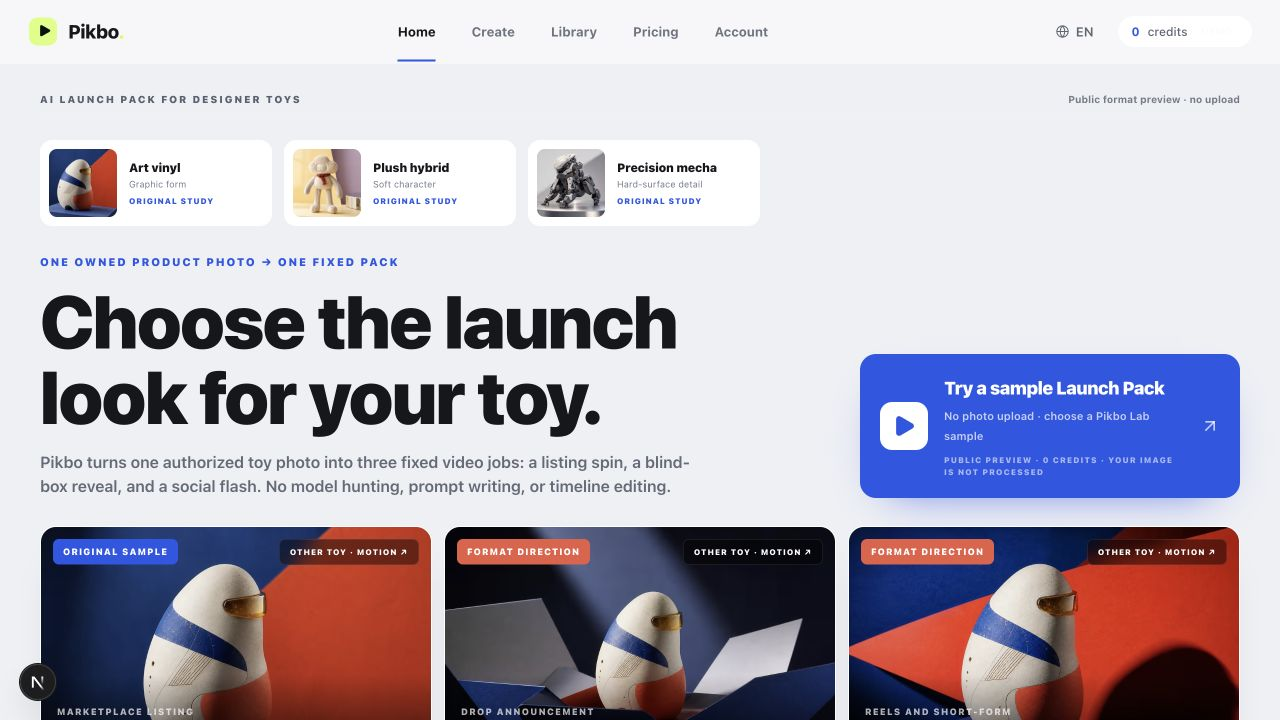
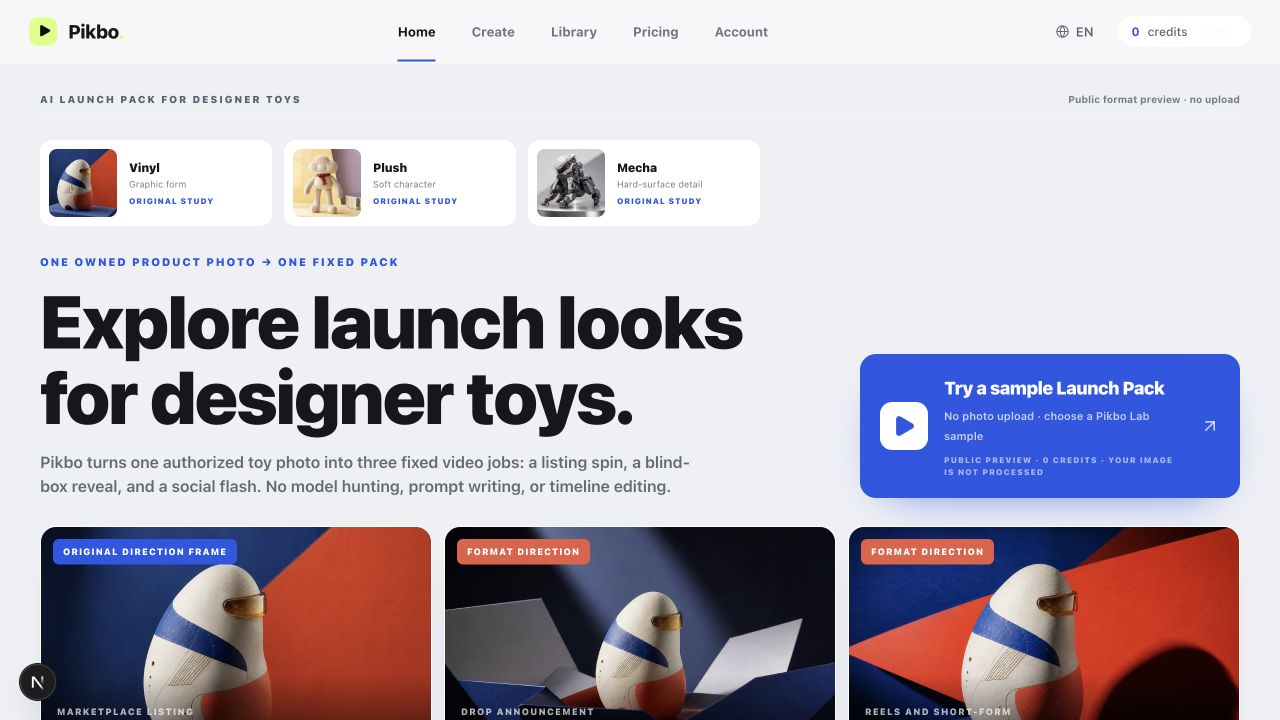
[gpt] close result-selector red-team findings

diff --git a/components/HomeCinemaHero.tsx b/components/HomeCinemaHero.tsx
@@ -17,19 +17,19 @@ import type { FeedItem } from "@/lib/videoFeed";
 
 const STYLE_STUDIES = [
   {
-    name: "Art vinyl",
+    name: "Vinyl",
     detail: "Graphic form",
     image: "/style-studies/art-vinyl-guardian-v1.jpg",
     alt: "Original white, cobalt, and red art-vinyl toy style study",
   },
   {
-    name: "Plush hybrid",
+    name: "Plush",
     detail: "Soft character",
     image: "/style-studies/plush-hybrid-v1.jpg",
     alt: "Original cream plush-hybrid toy style study",
   },
   {
-    name: "Precision mecha",
+    name: "Mecha",
     detail: "Hard-surface detail",
     image: "/style-studies/precision-mecha-v1.jpg",
     alt: "Original white, black, and orange mecha toy style study",
@@ -44,7 +44,7 @@ const FORMAT_DIRECTIONS = [
     spec: "1:1 · 5 sec",
     image: "/style-studies/art-vinyl-guardian-v1.jpg",
     alt: "Art-vinyl sample on a product plinth for the Listing Spin direction",
-    evidence: "Original sample",
+    evidence: "Original direction frame",
     tone: "blue",
   },
   {
@@ -71,7 +71,7 @@ const FORMAT_DIRECTIONS = [
 
 export function HomeCinemaHero({ items }: { items: FeedItem[] }) {
   const [launchAccess, setLaunchAccess] =
-    useState<HomeLaunchAccess>("checking");
+    useState<HomeLaunchAccess>("public-preview");
   const [credits, setCredits] = useState(0);
   const formats = FORMAT_DIRECTIONS.flatMap((format) => {
     const item = items.find((candidate) => candidate.recipeSlug === format.slug);
@@ -142,7 +142,7 @@ export function HomeCinemaHero({ items }: { items: FeedItem[] }) {
                 />
               </div>
               <div className="min-w-0">
-                <h2 className="truncate text-[10px] font-black sm:text-xs">
+                <h2 className="text-[10px] font-black sm:text-xs">
                   {style.name}
                 </h2>
                 <p className="mt-0.5 hidden text-[9px] text-[#747C89] sm:block">
@@ -165,7 +165,7 @@ export function HomeCinemaHero({ items }: { items: FeedItem[] }) {
               id="home-hero-title"
               className="mt-3 max-w-5xl font-display text-[clamp(2.55rem,5.8vw,6.25rem)] font-black leading-[0.91] tracking-[-0.065em]"
             >
-              Choose the launch look for your toy.
+              Explore launch looks for designer toys.
             </h1>
             <p className="mt-4 max-w-2xl text-sm font-semibold leading-6 text-[#626B78] sm:text-base">
               Pikbo turns one authorized toy photo into three fixed video jobs:
@@ -181,7 +181,7 @@ export function HomeCinemaHero({ items }: { items: FeedItem[] }) {
           id="pack-formats"
           className="mt-7 grid scroll-mt-20 gap-3 lg:grid-cols-3"
         >
-          {formats.map(({ format, item }, index) => (
+          {formats.map(({ format }, index) => (
             <article
               key={format.slug}
               data-home-format-preview={format.slug}
@@ -207,13 +207,6 @@ export function HomeCinemaHero({ items }: { items: FeedItem[] }) {
                 >
                   {format.evidence}
                 </span>
-                <Link
-                  href={item.projectHref || item.href}
-                  aria-label={`Open a different archived ${format.name} Lab prototype`}
-                  className="absolute right-3 top-3 rounded-md border border-white/25 bg-black/45 px-2.5 py-1.5 text-[8px] font-black uppercase tracking-[0.1em] text-white backdrop-blur transition hover:bg-black/70"
-                >
-                  Other toy · motion ↗
-                </Link>
                 <div className="absolute inset-x-0 bottom-0 flex items-end justify-between gap-3 p-4 text-white">
                   <div>
                     <p className="text-[9px] font-black uppercase tracking-[0.13em] text-white/68">
@@ -245,7 +238,7 @@ export function HomeCinemaHero({ items }: { items: FeedItem[] }) {
                 href={archivedListing.projectHref || archivedListing.href}
                 className="text-[#2457E6] underline decoration-[#2457E6]/25 underline-offset-4 hover:decoration-[#2457E6]"
               >
-                View archived Lab motion ↗
+                View archived motion test — different toy ↗
               </Link>
             ) : null}
             <Link href="/pricing" className="text-[#5F6774] hover:text-[#15171B]">

diff --git a/components/AppShell.tsx b/components/AppShell.tsx
@@ -152,10 +152,10 @@ function AppShellInner({ children }: { children: React.ReactNode }) {
 
       <nav
         className={cn(
-          "sticky bottom-0 z-50 grid grid-cols-5 border-t px-1 pb-[env(safe-area-inset-bottom)] backdrop-blur-xl lg:hidden",
+          "z-50 grid grid-cols-5 border-t px-1 pb-[env(safe-area-inset-bottom)] backdrop-blur-xl lg:hidden",
           home
-            ? "border-[#D4D8E0] bg-[#F7F8FA]/96"
-            : "border-white/10 bg-[#0A0A0A]/96"
+            ? "relative border-[#D4D8E0] bg-[#F7F8FA]/96"
+            : "sticky bottom-0 border-white/10 bg-[#0A0A0A]/96"
         )}
         aria-label="Mobile navigation"
       >

diff --git a/docs/HANDOFF.md b/docs/HANDOFF.md
@@ -2325,6 +2325,12 @@ Newest first. One block per meaningful landing.
   Pack, recovery ledger/reconciliation, Stripe billing, TypeScript, ESLint and
   the 198-route Next production build. Focused Launch-Pack, product-proof and
   mobile source regressions also pass.
+- WorkBuddy Preview review found the first deployed cut was materially better
+  than PR #94 but still had six polish/truth issues. The follow-up removes the
+  false `Choose` interaction cue, labels every static card as a direction
+  frame, moves old-toy motion out of the cards, makes the public CTA available
+  immediately, shortens mobile style names, and stops the Home mobile nav from
+  covering the first result. Final Preview recheck follows the delta deploy.
 - Safety: no API, Supabase, Provider, private Storage, credit, Stripe, Library,
   DNS, production flag or public payment behavior changed. Production remains
   validation/cached-only.

diff --git a/docs/evidence/pro-result-selector-2026-08-02/README.md b/docs/evidence/pro-result-selector-2026-08-02/README.md
@@ -35,6 +35,12 @@ three-video Provider run.
   `/create?mode=seller-pack&source=home-preview&try=1&sample=scout`.
 - Destination remained the public cached prototype path and stated that no
   product photo is accepted or processed.
+- WorkBuddy first Preview review verified 1440×900 and 390×844 with zero
+  horizontal overflow, CTA + result visible, six images loaded and no console
+  errors. Its follow-up fixes are included: non-interactive `Explore` copy,
+  direction-frame labeling for all three cards, one separated archived-motion
+  link, immediately usable public CTA, full mobile style names, and a
+  non-sticky Home mobile nav.
 
 ## Regression gate
 
@@ -53,4 +59,3 @@ Passed locally:
 - `npm run typecheck`
 - `npm run lint`
 - `npm run build` — 198/198 routes
-
